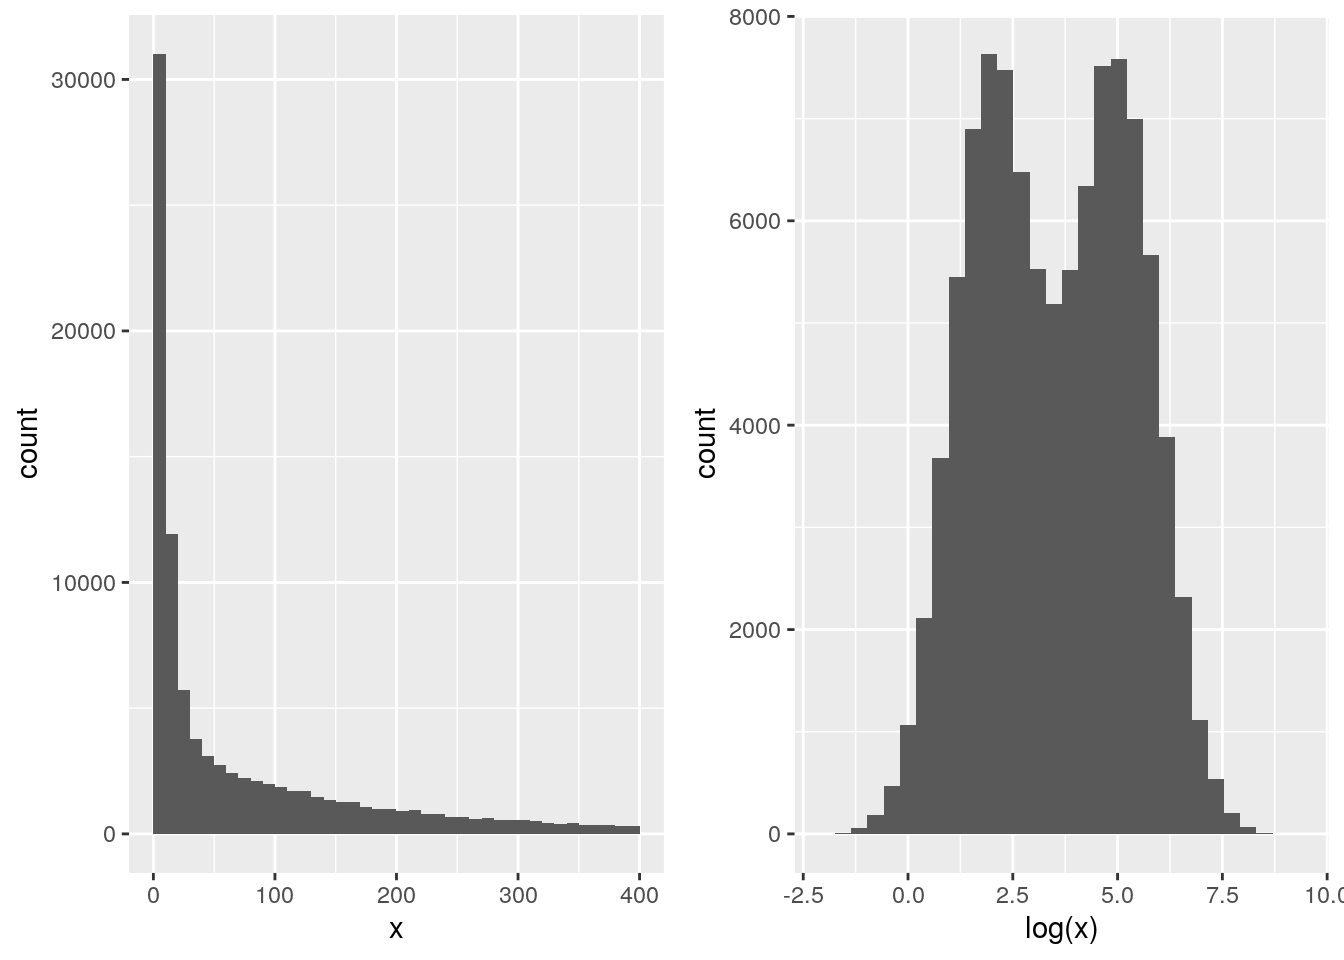
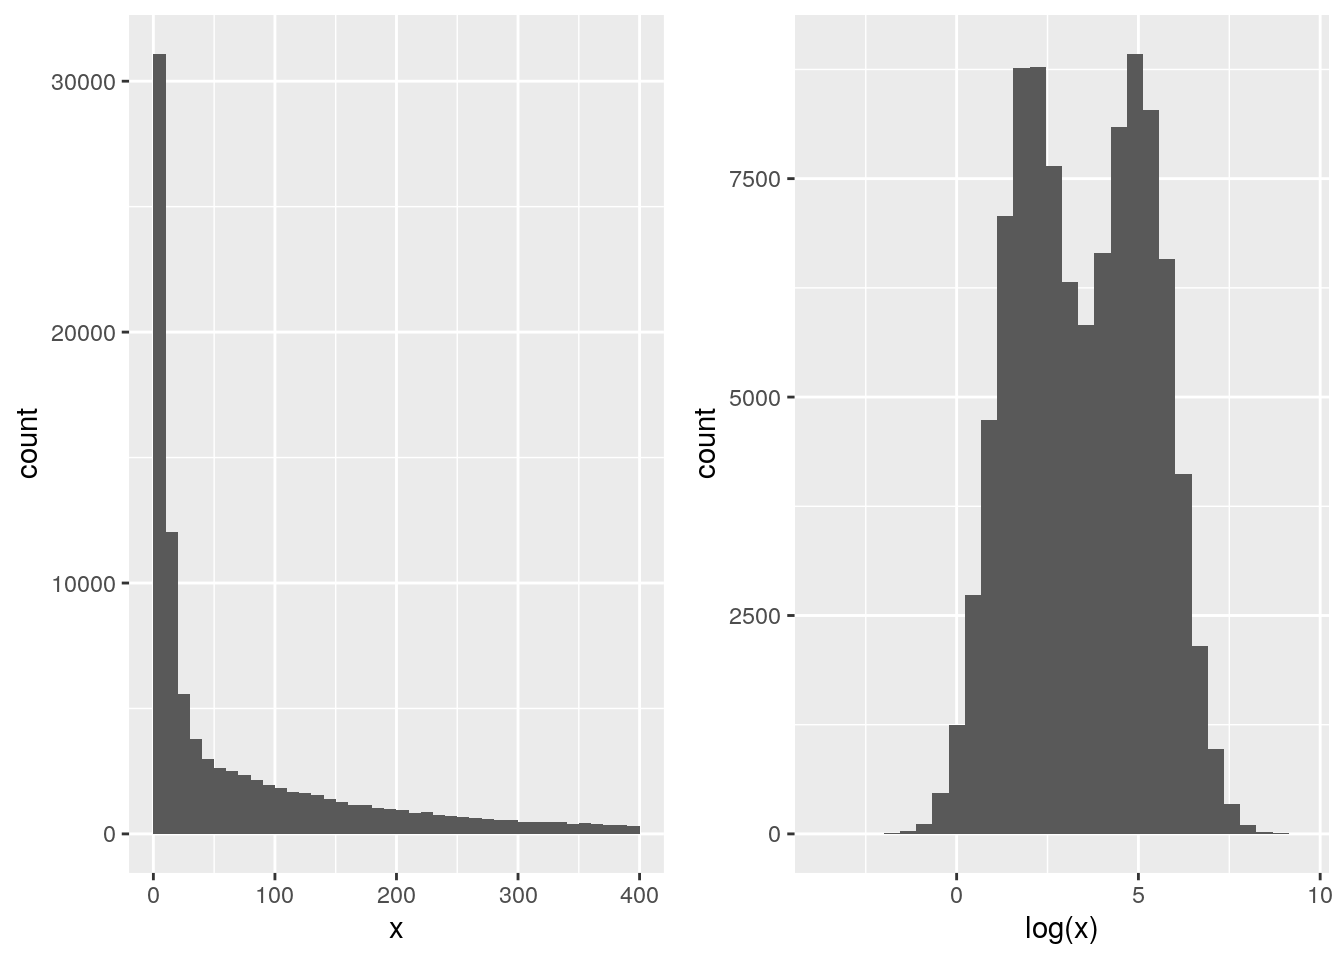
fix sidenote

diff --git a/docs/sec-sl.html b/docs/sec-sl.html
@@ -719,7 +719,7 @@ Figure 10.6: Average classification accuracy as a function of the parameter k.
 <div id="variance-and-bias-trade-off" class="section level2">
 <h2>
 <span class="header-section-number">10.5</span> Variance and bias trade-off</h2>
-<p>A recurrent goal in machine learning is to find a trade-off between variance and bias when fitting models. It is important to build a good model using the data at hand, i.e. that learns from the data, but not too much. If the model is too specific for the data that was used to build it (the model would be said to be <strong>over fitting the data</strong>) and would not be applicable to new data (the model would have high bias). On the other hand, a model that is too general, that wouldn’t be applicable enough to the data, or type of data at hand[^varex], it would perform poorly, and hence lead to high variance.</p>
+<p>A recurrent goal in machine learning is to find a trade-off between variance and bias when fitting models. It is important to build a good model using the data at hand, i.e. that learns from the data, but not too much. If the model is too specific for the data that was used to build it (the model would be said to be <strong>over fitting the data</strong>) and would not be applicable to new data (the model would have high bias). On the other hand, a model that is too general, that wouldn’t be applicable enough to the data, or type of data at hand<label for="tufte-sn-15" class="margin-toggle sidenote-number">15</label><input type="checkbox" id="tufte-sn-15" class="margin-toggle"><span class="sidenote"><span class="sidenote-number">15</span> In our example, this would equate to the expression of the four genes of interest in a specific population of cancer patients, for example.</span>, it would perform poorly, and hence lead to high variance.</p>
 <p>This variance and bias trade-off can be illustrated in different ways. The figure below shows the prediction error as a function of the model complexity. In our example above, we have used accuracy, a metric that we want to optimise, while in the prediction error is a measure to me minimised.</p>
 <div class="figure" style="text-align: center">
 <span id="fig:unnamed-chunk-91"></span>

diff --git a/docs/sec-vis.html b/docs/sec-vis.html
@@ -720,7 +720,7 @@ p1 &lt;-<span class="st">  </span><span class="kw">ggplot</span>(sim, <span clas
 p2 &lt;-<span class="st">  </span><span class="kw">ggplot</span>(sim, <span class="kw">aes</span>(<span class="kw">log</span>(x))) <span class="op">+</span>
 <span class="st">    </span><span class="kw">geom_histogram</span>(<span class="dt">bins =</span> <span class="dv">30</span>)
 p1 <span class="op">+</span><span class="st"> </span>p2</code></pre></div>
-<pre><code>## Warning: Removed 8172 rows containing non-finite values (stat_bin).</code></pre>
+<pre><code>## Warning: Removed 8046 rows containing non-finite values (stat_bin).</code></pre>
 <div class="figure">
 <span id="fig:sim"></span>
 <p class="caption marginnote shownote">
